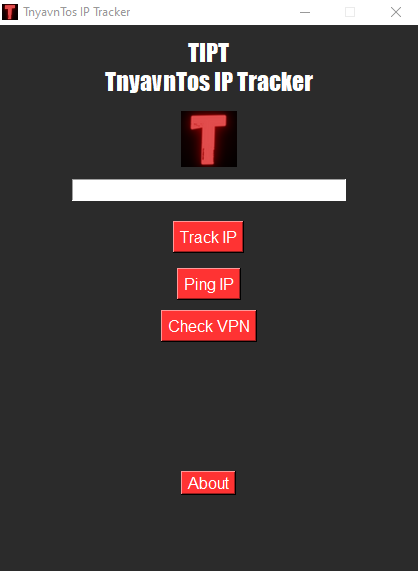
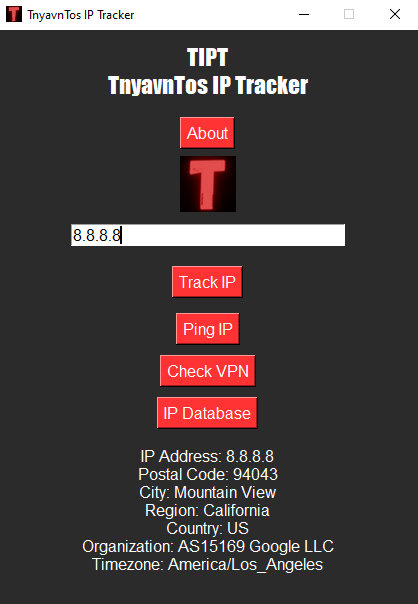
v1.2 | IP Database Added

Changed region(s): [[0.0, 0.0, 1.0, 0.7145], [0.1866, 0.7443, 0.8086, 0.9527]]

diff --git a/tipt.py b/tipt.py
@@ -1,7 +1,15 @@
 import tkinter as tk
 from tkinter import messagebox
 import requests
+import json
+import pyperclip
 
+tracked_ips = []
+try:
+    with open('tracked_ips.json', 'r') as f:
+        tracked_ips = json.load(f)
+except FileNotFoundError:
+    pass
 
 def track_ip():
     ip = ip_entry.get()
@@ -21,6 +29,9 @@ def track_ip():
                                   f"Timezone: {data['timezone']}")
     except requests.exceptions.RequestException:
         messagebox.showerror("Error", "Unable to get IP information")
+    tracked_ips.append(ip)
+    with open('tracked_ips.json', 'w') as f:
+        json.dump(tracked_ips, f)
 
 
 def ping_ip():
@@ -51,6 +62,28 @@ def check_vpn():
     except requests.exceptions.RequestException:
         messagebox.showerror("Error", "Unable to check VPN")
 
+def open_ip_database():
+    ip_database_window = tk.Toplevel(window)
+    ip_database_window.title("IP Database")
+    ip_database_window.iconbitmap("./assets/icon.ico")
+    ip_database_window.geometry("300x275")
+    ip_database_window.configure(bg="#2B2B2B")
+    ip_database_window.resizable(False, False)
+
+    ip_listbox = tk.Listbox(ip_database_window, font=("Helvetica", 12), bg="#3B3B3B", fg="white", selectbackground="#4B4B4B", selectforeground="white")
+    ip_listbox.pack(pady=10)
+
+    for ip in tracked_ips:
+        ip_listbox.insert(tk.END, ip)
+
+    def copy_ip_to_clipboard():
+        if ip_listbox.curselection():
+            selected_ip = ip_listbox.get(ip_listbox.curselection())
+            pyperclip.copy(selected_ip)
+            messagebox.showinfo("IP Copied", f"{selected_ip} has been copied to the clipboard.")
+
+    copy_ip_button = tk.Button(ip_database_window, text="Copy IP", font=("Helvetica", 12), bg="#FF3333", fg="white", command=copy_ip_to_clipboard)
+    copy_ip_button.pack(pady=10)
 
 def show_about():
     about_window = tk.Toplevel(window)
@@ -60,7 +93,7 @@ def show_about():
     about_window.configure(bg="#2B2B2B")
     about_window.resizable(False, False)
 
-    app_version_label = tk.Label(about_window, text="Version 1.1\nBe sure not to delete the assets folder.\nWould appreciate a taskbar pin!", bg="#2B2B2B", fg="white")
+    app_version_label = tk.Label(about_window, text="Version 1.2\nBe sure not to delete the assets folder.\nWould appreciate a taskbar pin!", bg="#2B2B2B", fg="white")
     app_version_label.pack(pady=10)
 
     app_creator_label = tk.Label(about_window, text="Created by TnyavnTo", bg="#2B2B2B", fg="white")
@@ -79,13 +112,16 @@ def open_url(url):
 window = tk.Tk()
 window.title("TnyavnTos IP Tracker")
 window.iconbitmap("./assets/icon.ico")
-window.geometry("420x550")
+window.geometry("420x575")
 window.configure(bg="#2B2B2B")
 window.resizable(False, False)
 
 
-app_title_label = tk.Label(window, text="TIPT\nTnyavnTos IP Tracker", font=("Impact", 18), bg="#2B2B2B", fg="white")
+app_title_label = tk.Label(window, text="TIPT\nTnyavnTos IP Tracker", font=("Impact", 17), bg="#2B2B2B", fg="white")
 app_title_label.pack(pady=10)
+
+about_button = tk.Button(window, text="About", font=("Helvetica", 12), bg="#FF3333", fg="white", command=show_about)
+about_button.pack(pady=5)
 
 logo = tk.PhotoImage(file="./assets/logo.png")
 logo_label = tk.Label(window, image=logo, bg="#2B2B2B")
@@ -103,10 +139,10 @@ ping_button.pack(pady=5)
 vpn_button = tk.Button(window, text="Check VPN", font=("Helvetica", 12), bg="#FF3333", fg="white", command=check_vpn)
 vpn_button.pack(pady=5)
 
+ip_database_button = tk.Button(window, text="IP Database", font=("Helvetica", 12), bg="#FF3333", fg="white", command=open_ip_database)
+ip_database_button.pack(pady=5)
+
 result_label = tk.Label(window, font=("Helvetica", 12), bg="#2B2B2B", fg="white")
 result_label.pack(pady=10)
-
-about_button = tk.Button(window, text="About", font=("Helvetica", 12), bg="#FF3333", fg="white", command=show_about)
-about_button.pack(pady=80)
 
 window.mainloop()

diff --git a/README.md b/README.md
@@ -4,7 +4,7 @@
 
 <br>
 
-<h1 align=center><a href='https://github.com/Svxy/TIPT/releases/download/v1.1/TIPTv1.1.zip'>Download Now!</a></h1>
+<h1 align=center><a href='https://github.com/Svxy/TIPT/releases/download/v1.2/TIPTv1.2.zip'>Download Now!</a></h1>
 
 <br>
 
@@ -24,7 +24,7 @@
 
 <br>
 
-<h3 align=center>Installation/Compilation:</h3>
+<h3 align=center>Source Code<br>Installation/Compilation:</h3>
 
 <br>
 

diff --git a/docs/index.md b/docs/index.md
@@ -4,7 +4,7 @@
 
 <br>
 
-<h1 align=center><a href='https://github.com/Svxy/TIPT/releases/download/v1.1/TIPTv1.1.zip'>Download Now!</a></h1>
+<h1 align=center><a href='https://github.com/Svxy/TIPT/releases/download/v1.2/TIPTv1.2.zip'>Download Now!</a></h1>
 
 <br>
 
@@ -24,7 +24,7 @@
 
 <br>
 
-<h3 align=center>Installation/Compilation:</h3>
+<h3 align=center>Source Code<br>Installation/Compilation:</h3>
 
 <br>
 
